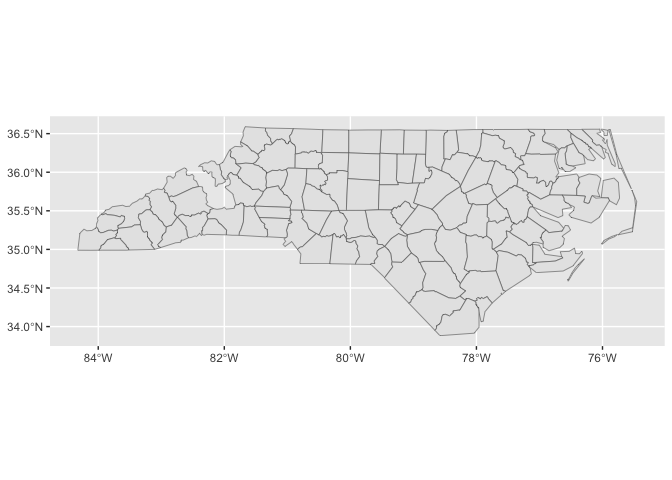
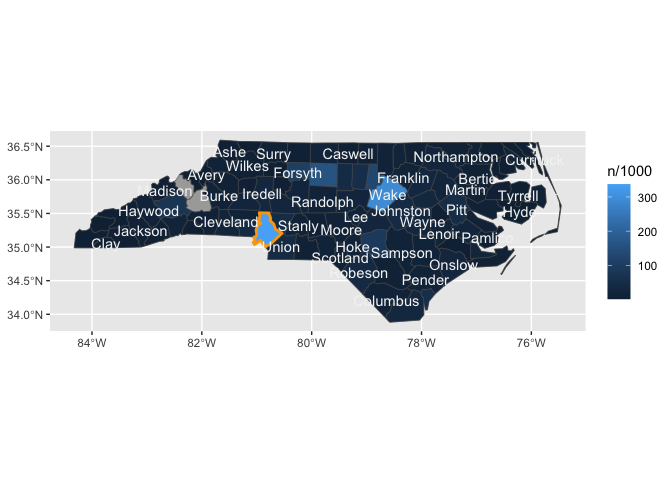
using getOption so that geom_region can be used in really diverse contexts.  you can set the region data to brasilian states, provinces in the netherlands, counties in northcarolina etc, usmapdata fails so far.  required aes should be deleted for stamp case.

diff --git a/README.md b/README.md
@@ -201,7 +201,10 @@ qlayer_sf_crs <- function (mapping = aes(), data = NULL, geom = "sf",
       coord_sf(crs = crs))
 }
 
-stat_region <- function(ref_data, geom = GeomSf, required_aes = c(), id_index = 1, ...){
+stat_region <- function(ref_data = getOption("sf2stat.ref_data", nc_ref), 
+                        id_index = 1, 
+                        required_aes = getOption("sf2stat.required_aes", "fips|county_name"),
+                        geom = GeomSf,  ...){
   
   StatSfJoin <- ggproto("StatSfJoin", Stat, 
                         compute_panel = compute_panel_region, 
@@ -215,7 +218,151 @@ stat_region <- function(ref_data, geom = GeomSf, required_aes = c(), id_index = 
                 id_index = id_index, ...)
   
 }
+
+
+GeomOutline <- ggproto("GeomOutline", GeomSf,
+                       default_aes = aes(!!!modifyList(GeomSf$default_aes,
+                                                       aes(fill = NA, 
+                                                           color = "black"))))
+
+geom_region_sf <- function(...){stat_region(geom = GeomSf,...)}
+geom_region <- geom_region_sf   # convenience short name
+geom_region_outline <- function(...){stat_region(geom = GeomOutline, ...)}
+geom_region_label <- function(...){stat_region(geom = GeomLabel,...)}
+geom_region_text <- function(...){stat_region(geom = GeomText, ...)}
+
+stamp_region_sf <- function(...){geom_region_sf(stamp = T, ...)}
+stamp_region <- stamp_region_sf
+stamp_region_outline <- function(...){geom_region_outline(stamp = T, ...)}
+stamp_region_label <- function(...){geom_region_label(stamp = T, ...)}
+stamp_region_text <- function(...){geom_region_text(stamp = T, ...)}
+
+
+
+options(sf2stat.ref_data = nc_ref,
+        sf2stat.required_aes = "fips|county_name")
+
+# north carolina counties....
+read.csv("nc-midterms.csv") |>
+  ggplot() + 
+  aes(county_name = str_to_title(desc_county)) + 
+  stamp_region(fill = 'darkgrey') + 
+  geom_region() + 
+  aes(fill = n/1000) + 
+  stamp_region_outline(
+    keep_id = "Mecklenburg",
+    color = "orange",
+    linewidth = 1) + 
+  geom_region_text(check_overlap = T,
+                   color = "whitesmoke")
 ```
+
+![](man/figures/README-unnamed-chunk-5-1.png)<!-- -->
+
+``` r
+
+chilemapas::generar_regiones() %>% 
+  mutate(numero_region = as.numeric(codigo_region)) %>% 
+  options(sf2stat.ref_data = .,
+          sf2stat.required_aes = "codigo_region|numero_region")
+
+
+chilemapas::censo_2017_comunas %>% 
+  mutate(region = str_extract(codigo_comuna, "..")) %>% 
+  summarise(pop = sum(poblacion), .by = c(region, sexo)) %>% 
+  ggplot() + 
+  aes(codigo_region = region, fill = pop/100000) +
+  geom_region(linewidth = .01) + 
+  facet_wrap(~sexo) + 
+  scale_fill_viridis_b(transform = "log") + 
+  stamp_region_outline(color = "red", 
+                       keep_id = "05")
+```
+
+![](man/figures/README-unnamed-chunk-5-2.png)<!-- -->
+
+``` r
+
+
+library(tmap)
+
+data(World)
+
+World %>% 
+  select(country_name = name,
+         iso3c = iso_a3) %>% 
+  options(sf2stat.ref_data = .,
+          sf2stat.required_aes = "country_name|iso3c")
+  
+tidyr::world_bank_pop %>% 
+  filter(indicator == "SP.POP.GROW") %>% 
+  ggplot() + 
+  aes(iso3c = country) + 
+  geom_region() + 
+  aes(fill = `2000`) + 
+  scale_fill_viridis_c() + 
+  labs(title = "Population Growth, 2000")
+```
+
+![](man/figures/README-unnamed-chunk-5-3.png)<!-- -->
+
+``` r
+
+
+data("NLD_prov")
+
+
+NLD_prov %>% 
+  select(prov_name = name, prov_code = code) %>% 
+  options(sf2stat.ref_data = ., 
+          sf2stat.required_aes = "prov_code|prov_name")
+
+NLD_prov %>% 
+  sf::st_drop_geometry() %>% 
+  ggplot() + 
+  aes(prov_code = code) + 
+  geom_region() + 
+  aes(fill = population/100000) + 
+  geom_region_text(check_overlap = T,
+                   size = 2, 
+                   color = "whitesmoke")
+```
+
+![](man/figures/README-unnamed-chunk-5-4.png)<!-- -->
+
+``` r
+
+last_plot() + 
+  aes(label = round(population/100000, 3))
+```
+
+![](man/figures/README-unnamed-chunk-5-5.png)<!-- -->
+
+``` r
+
+
+usmapdata::us_map() %>% 
+  select(state_name = full, state_abb = abbr, fips) %>% 
+  options(sf2stat.ref_data = .,
+          sf2stat.required_aes = "state_name|state_abb|fips")
+
+
+us_rent_income  %>% 
+  ggplot() + 
+  aes(state_name = NAME) + 
+  geom_region()
+```
+
+![](man/figures/README-unnamed-chunk-5-6.png)<!-- -->
+
+``` r
+
+usmapdata::us_map() %>% 
+  ggplot() + 
+  geom_sf()
+```
+
+![](man/figures/README-unnamed-chunk-5-7.png)<!-- -->
 
 # sf2stat Proposed usage
 
